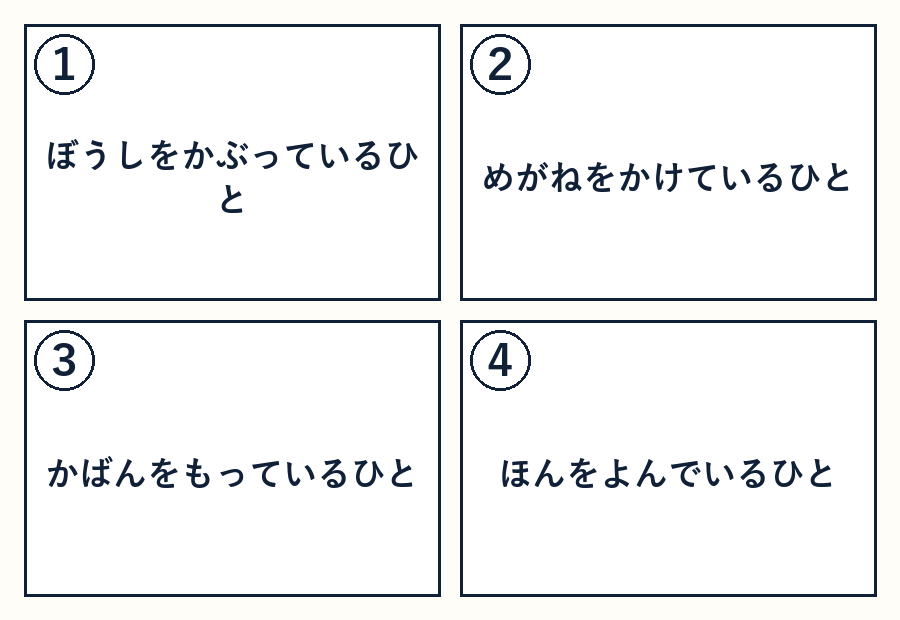
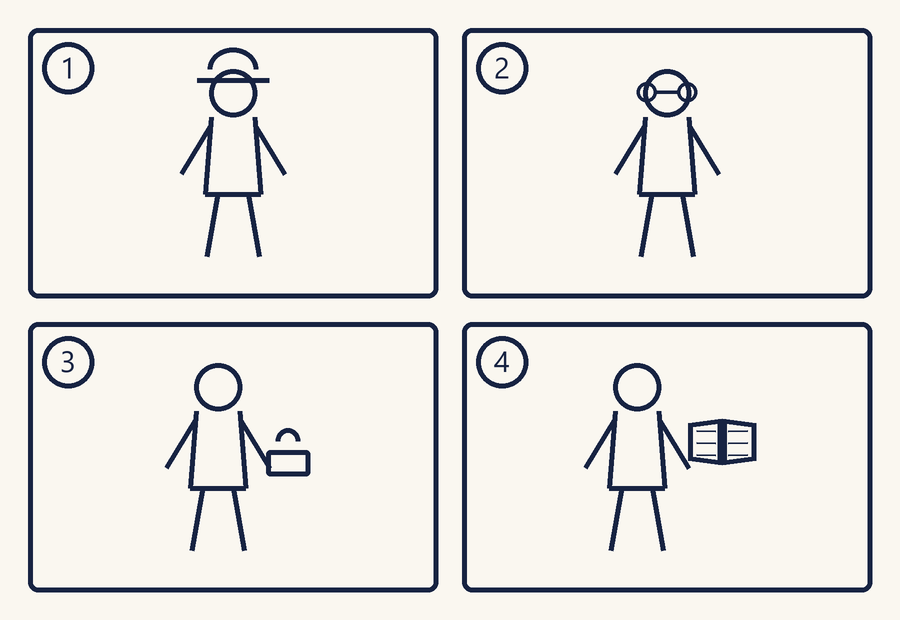
Ganti kotak teks jadi ilustrasi garis untuk soal Mendengarkan Paket B
6 gambar mondai1-3 (jlpt-n5-tp2) yang sebelumnya berupa kotak berlabel
teks (karena belum ada aset ilustrasi) sekarang jadi ilustrasi
pictogram garis sederhana bergaya sama dengan gambar asli JLPT,
digambar langsung dengan Pillow (bukan foto/API image-gen):

- mondai1: baca buku / tulis laporan / serahkan laporan ke guru /
  pulang; minum di perpustakaan / pergi ke lobi / pulang / pinjam buku
- mondai2: identifikasi orang (topi/kacamata/tas/baca buku) dan
  payung (panjang/pendek/bercorak bunga/hitam)
- mondai3: adegan ucapan selamat ulang tahun & salam pagi, dengan
  panah penanda siapa yang harus bicara (gaya "yajirushi" asli JLPT)

Deskripsi paket di latihan.js diperbarui (tidak lagi menyebut kotak
teks), cache service worker dinaikkan ke v181 supaya user dapat aset
baru. Audio masih TTS sintesis lama - upgrade ke suara lebih natural
(lewat Vercel AI Gateway) ditunda dulu atas permintaan user.

diff --git a/js/pages/latihan.js b/js/pages/latihan.js
@@ -136,7 +136,7 @@ const mockTestPackages={
   },
   "jlpt-n5-tp2":{
     label:"JLPT N5 · Paket B (Latihan)",
-    source:"Paket latihan orisinal (bukan dari dokumen resmi JLPT) - struktur & jumlah soal per もんだい dibuat identik dengan paket JLPT N5 · Contoh Resmi, kosakata & konteksnya semua berbeda. Audio dibuat dengan suara sintesis (text-to-speech) karena tidak ada rekaman asli untuk kosakata baru ini; gambar soal mendengarkan bergambar dibuat sebagai kotak pilihan berlabel teks (bukan ilustrasi) karena tidak ada aset ilustrasi baru.",
+    source:"Paket latihan orisinal (bukan dari dokumen resmi JLPT) - struktur & jumlah soal per もんだい dibuat identik dengan paket JLPT N5 · Contoh Resmi, kosakata & konteksnya semua berbeda. Audio dibuat dengan suara sintesis (text-to-speech) karena tidak ada rekaman asli untuk kosakata baru ini; gambar soal mendengarkan bergambar berupa ilustrasi garis sederhana (dibuat khusus, bukan aset resmi JLPT).",
     questions:[
       {category:"Kosakata JLPT",instruction:"＿＿＿の ことばは ひらがなで どう かきますか。1・2・3・4から いちばん いい ものを ひとつ えらんでください。",html:"きょうは とても <u>忙しい</u>です。",options:["いぞがしい","いそかしい","いそがしい","いぞかしい"],answer:2,explanation:"忙しい dibaca いそがしい, berarti sibuk.",material:"JLPT N5 - Paket B (Latihan) · kanji_reading"},
       {category:"Kosakata JLPT",instruction:"＿＿＿の ことばは ひらがなで どう かきますか。1・2・3・4から いちばん いい ものを ひとつ えらんでください。",html:"<u>財布</u>を わすれました。",options:["ざいぶ","さいふ","ざいふ","さいぶ"],answer:1,explanation:"財布 dibaca さいふ, berarti dompet.",material:"JLPT N5 - Paket B (Latihan) · kanji_reading"},

diff --git a/sw.js b/sw.js
@@ -1,7 +1,7 @@
 // Satu-satunya angka yang perlu dinaikkan setiap kali ada file di ASSETS
 // yang isinya berubah (JS/CSS/data/gambar). Tanpa ini, service worker
 // akan terus menyajikan versi lama dari cache ke user yang sudah install.
-const CACHE_NAME = 'nihon-go-benkyo-v180';
+const CACHE_NAME = 'nihon-go-benkyo-v181';
 const ASSETS = [
   'index.html',
   'css/base.css', 'css/shell.css', 'css/auth.css',
